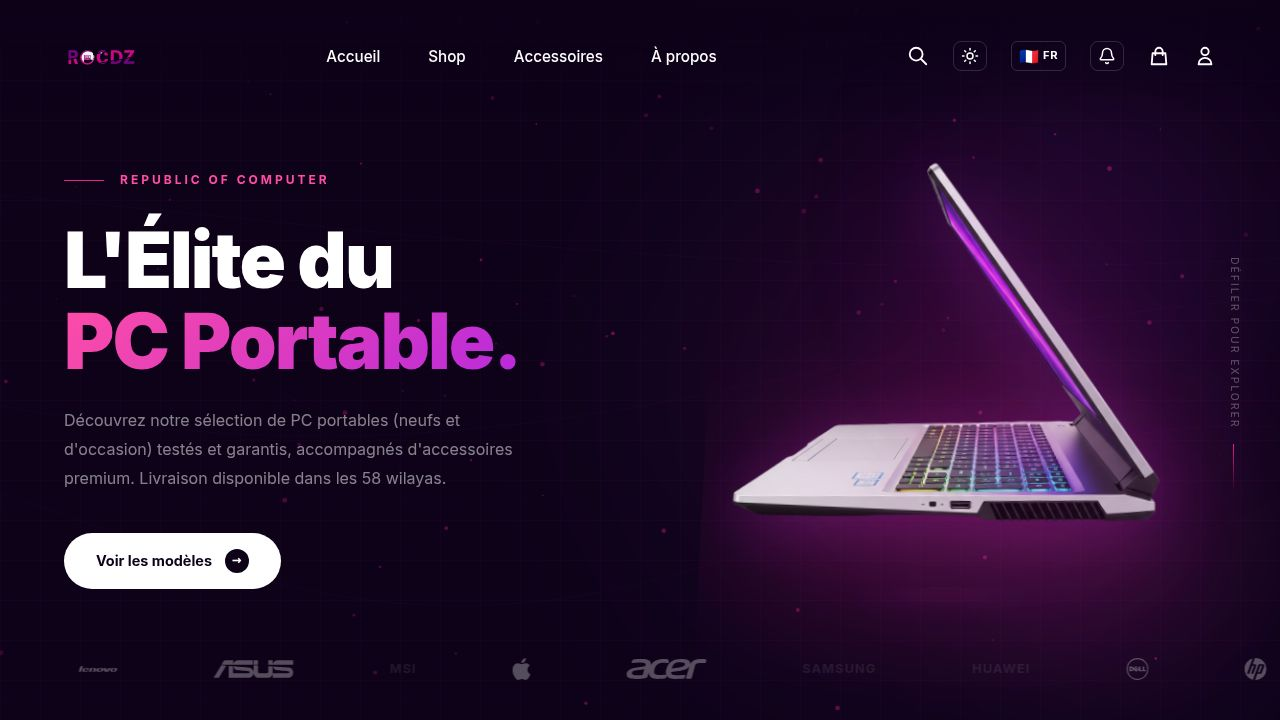
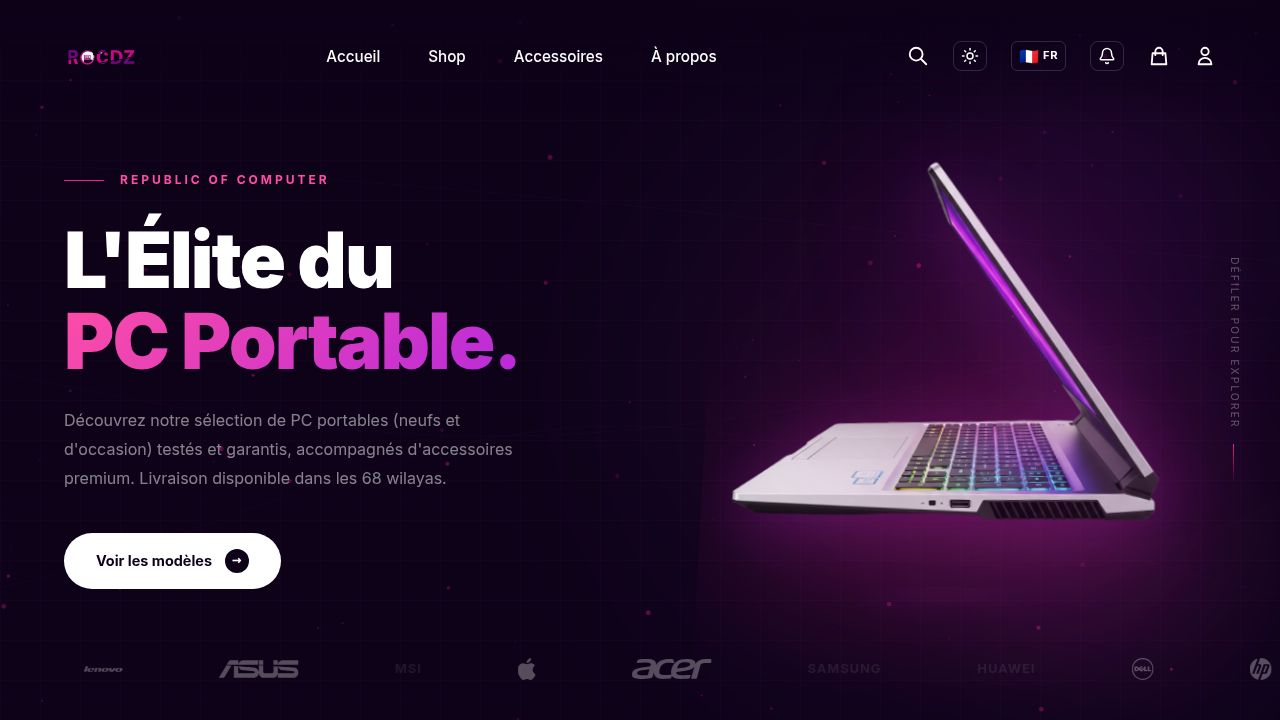
Update website footer and improve light mode display
Remove tracking section from home, update footer with contact details, and adjust text and logo colors for better visibility in light mode.

Replit-Commit-Author: Agent
Replit-Commit-Session-Id: c9644167-96a0-4d4f-a155-c8bb3c2bbde3
Replit-Commit-Checkpoint-Type: full_checkpoint
Replit-Commit-Event-Id: 169beb84-61b3-4fcf-b506-644a0de1f5fb
Replit-Commit-Screenshot-Url: https://storage.googleapis.com/screenshot-production-us-central1/83f345b2-db2a-48a5-b47f-27564cf82f85/c9644167-96a0-4d4f-a155-c8bb3c2bbde3/4c4F4YT
Replit-Helium-Checkpoint-Created: true

diff --git a/artifacts/roc-dz/src/components/layout/Footer.tsx b/artifacts/roc-dz/src/components/layout/Footer.tsx
@@ -10,106 +10,112 @@ const DEV_WHATSAPP = "https://wa.me/213796238304";
 
 export function Footer() {
   const { t, isRTL } = useLang();
-  const c = t.contact;
   const f = t.footer;
 
   return (
     <footer className="border-t border-white/5 bg-background/50 mt-auto" dir={isRTL ? "rtl" : "ltr"}>
-      <div style={{ background: "linear-gradient(135deg,rgba(232,33,160,0.06),rgba(139,59,221,0.06))", borderBottom: "1px solid rgba(232,33,160,0.15)", padding: "2.5rem 1rem" }}>
-        <div className="container mx-auto max-w-5xl">
-          <div className="flex flex-col md:flex-row gap-6 md:gap-12 justify-between">
-            <div className="space-y-2">
-              <div style={{ display: "flex", alignItems: "center", gap: "6px", marginBottom: "8px" }}>
-                <Clock size={16} style={{ color: "var(--pink)" }} />
-                <span style={{ fontWeight: 700, fontSize: "0.85rem", color: "var(--pink)", textTransform: "uppercase", letterSpacing: "1px" }}>{c.hoursTitle}</span>
-              </div>
-              <p style={{ color: "var(--text)", fontWeight: 600, fontSize: "0.95rem" }}>{c.hours}</p>
-            </div>
 
-            <div className="space-y-3">
-              <div style={{ display: "flex", alignItems: "center", gap: "6px", marginBottom: "8px" }}>
-                <Phone size={16} style={{ color: "var(--pink)" }} />
-                <span style={{ fontWeight: 700, fontSize: "0.85rem", color: "var(--pink)", textTransform: "uppercase", letterSpacing: "1px" }}>{c.title}</span>
-              </div>
-              <div style={{ display: "flex", flexDirection: "column", gap: "6px" }}>
-                <a href="tel:[phone redacted]" style={{ color: "var(--text)", textDecoration: "none", fontWeight: 600, fontSize: "1rem", display: "flex", alignItems: "center", gap: "8px" }}>
-                  📞 {c.phone1}
-                  <span style={{ fontSize: "0.75rem", color: "var(--text-muted)", fontWeight: 400 }}>{c.phone1Hours}</span>
-                </a>
-                <a href="tel:[phone redacted]" style={{ color: "var(--text)", textDecoration: "none", fontWeight: 600, fontSize: "1rem", display: "flex", alignItems: "center", gap: "8px" }}>
-                  📞 {c.phone2}
-                  <span style={{ fontSize: "0.75rem", color: "var(--text-muted)", fontWeight: 400 }}>{c.phone2Hours}</span>
-                </a>
-              </div>
-            </div>
+      <div className="container mx-auto px-4 py-12 grid grid-cols-1 md:grid-cols-3 gap-8">
 
-            <div className="space-y-3">
-              <div style={{ display: "flex", alignItems: "center", gap: "6px", marginBottom: "8px" }}>
-                <MapPin size={16} style={{ color: "var(--pink)" }} />
-                <span style={{ fontWeight: 700, fontSize: "0.85rem", color: "var(--pink)", textTransform: "uppercase", letterSpacing: "1px" }}>{c.location}</span>
-              </div>
-              <a href={MAPS_URL} target="_blank" rel="noopener noreferrer"
-                style={{ color: "var(--text)", textDecoration: "none", fontWeight: 600, fontSize: "0.9rem", display: "flex", alignItems: "center", gap: "6px" }}>
-                📍 {c.mapLink}
-              </a>
+        {/* Col 1 — Logo + description */}
+        <div className="col-span-1">
+          <Link href="/" className="inline-block mb-4">
+            <img src="/logo.png" alt="ROC DZ" style={{ height: "48px", width: "auto", objectFit: "contain" }} />
+          </Link>
+          <p style={{ fontSize: "0.85rem", color: "var(--text-muted)", maxWidth: "220px", lineHeight: 1.65 }}>{f.desc}</p>
+        </div>
+
+        {/* Col 2 — Navigation */}
+        <div>
+          <h4 style={{ fontWeight: 700, marginBottom: "1rem", fontSize: "0.88rem", textTransform: "uppercase", letterSpacing: "1px", color: "var(--text)" }}>{f.nav}</h4>
+          <ul style={{ listStyle: "none", padding: 0, margin: 0, display: "flex", flexDirection: "column", gap: "0.5rem" }}>
+            <li><Link href="/"           style={{ textDecoration: "none", fontSize: "0.85rem", color: "var(--text-muted)", transition: "color 0.15s" }}>{t.nav.home}</Link></li>
+            <li><Link href="/models"     style={{ textDecoration: "none", fontSize: "0.85rem", color: "var(--text-muted)", transition: "color 0.15s" }}>{t.nav.shop}</Link></li>
+            <li><Link href="/accessories" style={{ textDecoration: "none", fontSize: "0.85rem", color: "var(--text-muted)", transition: "color 0.15s" }}>{t.nav.acc}</Link></li>
+            <li><Link href="/about"      style={{ textDecoration: "none", fontSize: "0.85rem", color: "var(--text-muted)", transition: "color 0.15s" }}>{t.nav.about}</Link></li>
+            <li><Link href="/suivi"      style={{ textDecoration: "none", fontSize: "0.85rem", color: "var(--text-muted)", transition: "color 0.15s" }}>Suivi commande</Link></li>
+          </ul>
+        </div>
+
+        {/* Col 3 — Horaires + Contact + Localisation */}
+        <div style={{ display: "flex", flexDirection: "column", gap: "1.25rem" }}>
+
+          {/* Horaires */}
+          <div>
+            <div style={{ display: "flex", alignItems: "center", gap: "6px", marginBottom: "0.4rem" }}>
+              <Clock size={14} style={{ color: "var(--pink)", flexShrink: 0 }} />
+              <span style={{ fontSize: "0.72rem", fontWeight: 700, color: "var(--pink)", textTransform: "uppercase", letterSpacing: "1.5px" }}>
+                Horaires d'ouverture
+              </span>
+            </div>
+            <p style={{ fontSize: "0.85rem", color: "var(--text)", fontWeight: 600, margin: 0 }}>6/7 jours — 9h à 20h</p>
+          </div>
+
+          {/* Téléphones */}
+          <div>
+            <div style={{ display: "flex", alignItems: "center", gap: "6px", marginBottom: "0.5rem" }}>
+              <Phone size={14} style={{ color: "var(--pink)", flexShrink: 0 }} />
+              <span style={{ fontSize: "0.72rem", fontWeight: 700, color: "var(--pink)", textTransform: "uppercase", letterSpacing: "1.5px" }}>
+                Contactez-nous
+              </span>
+            </div>
+            <a href="tel:[phone redacted]" style={{ display: "flex", alignItems: "center", gap: "6px", textDecoration: "none", color: "var(--text)", fontSize: "0.88rem", fontWeight: 600, marginBottom: "0.3rem" }}>
+              📞 0562 854 820
+              <span style={{ fontSize: "0.72rem", color: "var(--text-muted)", fontWeight: 400 }}>de 8h à 16h</span>
+            </a>
+            <a href="tel:[phone redacted]" style={{ display: "flex", alignItems: "center", gap: "6px", textDecoration: "none", color: "var(--text)", fontSize: "0.88rem", fontWeight: 600 }}>
+              📞 0553 207 730
+              <span style={{ fontSize: "0.72rem", color: "var(--text-muted)", fontWeight: 400 }}>de 16h à minuit</span>
+            </a>
+          </div>
+
+          {/* Localisation + réseaux */}
+          <div>
+            <div style={{ display: "flex", alignItems: "center", gap: "6px", marginBottom: "0.5rem" }}>
+              <MapPin size={14} style={{ color: "var(--pink)", flexShrink: 0 }} />
+              <span style={{ fontSize: "0.72rem", fontWeight: 700, color: "var(--pink)", textTransform: "uppercase", letterSpacing: "1.5px" }}>
+                Notre localisation
+              </span>
+            </div>
+            <a href={MAPS_URL} target="_blank" rel="noopener noreferrer"
+              style={{ display: "flex", alignItems: "center", gap: "6px", textDecoration: "none", color: "var(--text)", fontSize: "0.85rem", fontWeight: 600, marginBottom: "0.6rem" }}>
+              📍 Voir sur Google Maps
+            </a>
+            <div style={{ display: "flex", gap: "14px", alignItems: "center" }}>
               <a href={INSTAGRAM_URL} target="_blank" rel="noopener noreferrer"
-                style={{ color: "#e1306c", textDecoration: "none", fontWeight: 600, fontSize: "0.9rem", display: "flex", alignItems: "center", gap: "6px" }}>
-                <Instagram size={16} /> Instagram
+                style={{ display: "flex", alignItems: "center", gap: "5px", textDecoration: "none", color: "#e1306c", fontSize: "0.82rem", fontWeight: 600, transition: "opacity 0.2s" }}>
+                <Instagram size={15} /> Instagram
               </a>
               <a href={FACEBOOK_URL} target="_blank" rel="noopener noreferrer"
-                style={{ color: "#1877f2", textDecoration: "none", fontWeight: 600, fontSize: "0.9rem", display: "flex", alignItems: "center", gap: "6px" }}>
-                <Facebook size={16} /> Facebook
+                style={{ display: "flex", alignItems: "center", gap: "5px", textDecoration: "none", color: "#1877f2", fontSize: "0.82rem", fontWeight: 600, transition: "opacity 0.2s" }}>
+                <Facebook size={15} /> Facebook
               </a>
               <a href={YOUTUBE_URL} target="_blank" rel="noopener noreferrer"
-                style={{ color: "#ff0000", textDecoration: "none", fontWeight: 600, fontSize: "0.9rem", display: "flex", alignItems: "center", gap: "6px" }}>
-                <Youtube size={16} /> YouTube
+                style={{ display: "flex", alignItems: "center", gap: "5px", textDecoration: "none", color: "#ff0000", fontSize: "0.82rem", fontWeight: 600, transition: "opacity 0.2s" }}>
+                <Youtube size={15} /> YouTube
               </a>
             </div>
           </div>
         </div>
       </div>
 
-      <div className="container mx-auto px-4 py-12 grid grid-cols-1 md:grid-cols-3 gap-8">
-        <div className="col-span-1">
-          <Link href="/" className="inline-block mb-4">
-            <img src="/logo.png" alt="ROC DZ" style={{ height: "48px", width: "auto", objectFit: "contain" }} />
-          </Link>
-          <p className="text-muted-foreground text-sm max-w-xs">{f.desc}</p>
+      {/* Bottom bar */}
+      <div style={{ borderTop: "1px solid rgba(255,255,255,0.05)", padding: "1.25rem 1rem" }}>
+        <div className="container mx-auto" style={{ display: "flex", flexDirection: "row", alignItems: "center", justifyContent: "space-between", gap: "0.75rem", flexWrap: "wrap" }}>
+          <span style={{ fontSize: "0.75rem", color: "var(--text-muted)" }}>&copy; {new Date().getFullYear()} ROC DZ. {f.rights}</span>
+          <a
+            href={DEV_WHATSAPP}
+            target="_blank"
+            rel="noopener noreferrer"
+            style={{ display: "flex", alignItems: "center", gap: "6px", color: "var(--text-muted)", textDecoration: "none", fontSize: "0.72rem", opacity: 0.65, transition: "opacity 0.2s" }}
+            onMouseEnter={e => { (e.currentTarget as HTMLAnchorElement).style.opacity = "1"; }}
+            onMouseLeave={e => { (e.currentTarget as HTMLAnchorElement).style.opacity = "0.65"; }}
+          >
+            <span>{f.devCredit}</span>
+            <svg viewBox="0 0 24 24" fill="currentColor" style={{ width: "14px", height: "14px", color: "#25d366" }}><path d="M17.472 14.382c-.297-.149-1.758-.867-2.03-.967-.273-.099-.471-.148-.67.15-.197.297-.767.966-.94 1.164-.173.199-.347.223-.644.075-.297-.15-1.255-.463-2.39-1.475-.883-.788-1.48-1.761-1.653-2.059-.173-.297-.018-.458.13-.606.134-.133.298-.347.446-.52.149-.174.198-.298.298-.497.099-.198.05-.371-.025-.52-.075-.149-.669-1.612-.916-2.207-.242-.579-.487-.5-.669-.51-.173-.008-.371-.01-.57-.01-.198 0-.52.074-.792.372-.272.297-1.04 1.016-1.04 2.479 0 1.462 1.065 2.875 1.213 3.074.149.198 2.096 3.2 5.077 4.487.709.306 1.262.489 1.694.625.712.227 1.36.195 1.871.118.571-.085 1.758-.719 2.006-1.413.248-.694.248-1.289.173-1.413-.074-.124-.272-.198-.57-.347m-5.421 7.403h-.004a9.87 9.87 0 01-5.031-1.378l-.361-.214-3.741.982.998-3.648-.235-.374a9.86 9.86 0 01-1.51-5.26c.001-5.45 4.436-9.884 9.888-9.884 2.64 0 5.122 1.03 6.988 2.898a9.825 9.825 0 012.893 6.994c-.003 5.45-4.437 9.884-9.885 9.884m8.413-18.297A11.815 11.815 0 0012.05 0C5.495 0 .16 5.335.157 11.892c0 2.096.547 4.142 1.588 5.945L.057 24l6.305-1.654a11.882 11.882 0 005.683 1.448h.005c6.554 0 11.89-5.335 11.893-11.893a11.821 11.821 0 00-3.48-8.413z"/></svg>
+            <span>[phone redacted]</span>
+          </a>
         </div>
-        <div>
-          <h4 className="font-semibold mb-4 text-foreground">{f.nav}</h4>
-          <ul className="space-y-2 text-sm text-muted-foreground">
-            <li><Link href="/" className="hover:text-primary transition-colors">{t.nav.home}</Link></li>
-            <li><Link href="/models" className="hover:text-primary transition-colors">{t.nav.shop}</Link></li>
-            <li><Link href="/accessories" className="hover:text-primary transition-colors">{t.nav.acc}</Link></li>
-            <li><Link href="/about" className="hover:text-primary transition-colors">{t.nav.about}</Link></li>
-            <li><Link href="/suivi" className="hover:text-primary transition-colors">Suivi commande</Link></li>
-          </ul>
-        </div>
-        <div>
-          <h4 className="font-semibold mb-4 text-foreground">{f.legal}</h4>
-          <ul className="space-y-2 text-sm text-muted-foreground">
-            <li><a href="#" className="hover:text-primary transition-colors">Conditions d'utilisation</a></li>
-            <li><a href="#" className="hover:text-primary transition-colors">Politique de confidentialité</a></li>
-            <li><a href="#" className="hover:text-primary transition-colors">Garantie</a></li>
-          </ul>
-        </div>
-      </div>
-
-      <div className="container mx-auto px-4 pb-8 border-t border-white/5 pt-6 flex flex-col md:flex-row items-center justify-between gap-3 text-xs text-muted-foreground">
-        <span>&copy; {new Date().getFullYear()} ROC DZ. {f.rights}</span>
-        <a
-          href={DEV_WHATSAPP}
-          target="_blank"
-          rel="noopener noreferrer"
-          style={{ display: "flex", alignItems: "center", gap: "6px", color: "var(--text-muted)", textDecoration: "none", fontSize: "0.72rem", opacity: 0.65, transition: "opacity 0.2s" }}
-          onMouseEnter={e => { (e.currentTarget as HTMLAnchorElement).style.opacity = "1"; }}
-          onMouseLeave={e => { (e.currentTarget as HTMLAnchorElement).style.opacity = "0.65"; }}
-        >
-          <span>{f.devCredit}</span>
-          <svg viewBox="0 0 24 24" fill="currentColor" style={{ width: "14px", height: "14px", color: "#25d366" }}><path d="M17.472 14.382c-.297-.149-1.758-.867-2.03-.967-.273-.099-.471-.148-.67.15-.197.297-.767.966-.94 1.164-.173.199-.347.223-.644.075-.297-.15-1.255-.463-2.39-1.475-.883-.788-1.48-1.761-1.653-2.059-.173-.297-.018-.458.13-.606.134-.133.298-.347.446-.52.149-.174.198-.298.298-.497.099-.198.05-.371-.025-.52-.075-.149-.669-1.612-.916-2.207-.242-.579-.487-.5-.669-.51-.173-.008-.371-.01-.57-.01-.198 0-.52.074-.792.372-.272.297-1.04 1.016-1.04 2.479 0 1.462 1.065 2.875 1.213 3.074.149.198 2.096 3.2 5.077 4.487.709.306 1.262.489 1.694.625.712.227 1.36.195 1.871.118.571-.085 1.758-.719 2.006-1.413.248-.694.248-1.289.173-1.413-.074-.124-.272-.198-.57-.347m-5.421 7.403h-.004a9.87 9.87 0 01-5.031-1.378l-.361-.214-3.741.982.998-3.648-.235-.374a9.86 9.86 0 01-1.51-5.26c.001-5.45 4.436-9.884 9.888-9.884 2.64 0 5.122 1.03 6.988 2.898a9.825 9.825 0 012.893 6.994c-.003 5.45-4.437 9.884-9.885 9.884m8.413-18.297A11.815 11.815 0 0012.05 0C5.495 0 .16 5.335.157 11.892c0 2.096.547 4.142 1.588 5.945L.057 24l6.305-1.654a11.882 11.882 0 005.683 1.448h.005c6.554 0 11.89-5.335 11.893-11.893a11.821 11.821 0 00-3.48-8.413z"/></svg>
-          <span>[phone redacted]</span>
-        </a>
       </div>
     </footer>
   );

diff --git a/artifacts/roc-dz/src/index.css b/artifacts/roc-dz/src/index.css
@@ -1995,3 +1995,29 @@ section { position: relative; z-index: 2; }
 /* ── LIGHT MODE: tracking step inactive text ─────────────── */
 .light-mode .tracking-step-name { color: rgba(20,16,16,0.5); }
 .light-mode .tracking-step-line { background: linear-gradient(90deg, rgba(199,25,93,0.3), rgba(139,59,221,0.15)); }
+
+/* ── LIGHT MODE: shop sidebar & filter panel text ─── */
+.light-mode .shop-sidebar p,
+.light-mode .shop-mobile-panel p {
+  color: rgba(20,16,16,0.55) !important;
+}
+.light-mode .shop-sidebar button span,
+.light-mode .shop-mobile-panel button span {
+  color: rgba(20,16,16,0.65) !important;
+}
+.light-mode .shop-sidebar button[style*="rgba(232,33,160"] span,
+.light-mode .shop-mobile-panel button[style*="rgba(232,33,160"] span {
+  color: var(--pink) !important;
+}
+/* Marquee fallback text + global brand-logo text */
+.light-mode .brand-item span { color: rgba(20,16,16,0.7) !important; }
+/* Shop heading text (Trier par, labels) */
+.light-mode .shop-topbar { color: rgba(20,16,16,0.8); }
+/* Pagination count text */
+.light-mode .shop-main > p { color: rgba(20,16,16,0.4) !important; }
+/* stat-card border in light mode */
+.light-mode .stat-card { background: rgba(20,16,16,0.03); border-color: rgba(20,16,16,0.08); }
+/* tracking step colors in light mode (inactive) */
+.light-mode .tracking-step-dot { border-color: rgba(20,16,16,0.15) !important; }
+/* footer border */
+.light-mode footer { border-top-color: rgba(20,16,16,0.08) !important; }

diff --git a/artifacts/roc-dz/src/pages/Home.tsx b/artifacts/roc-dz/src/pages/Home.tsx
@@ -156,7 +156,8 @@ export default function Home() {
                 <img
                   src={b.img}
                   alt={b.name}
-                  style={{ height: "22px", width: "auto", maxWidth: "80px", objectFit: "contain", filter: "brightness(0) invert(1)", opacity: 0.75 }}
+                  className="brand-logo"
+                  style={{ height: "22px", width: "auto", maxWidth: "80px", objectFit: "contain", opacity: 0.75 }}
                   onError={e => { const el = e.currentTarget as HTMLImageElement; el.style.display = "none"; el.nextElementSibling && ((el.nextElementSibling as HTMLElement).style.display = "inline"); }}
                 />
                 <span style={{ display: "none", fontSize: "0.8rem", fontWeight: 700, letterSpacing: "1px", opacity: 0.7 }}>{b.name}</span>
@@ -373,9 +374,6 @@ export default function Home() {
           </div>
         </div>
       </section>
-
-      {/* TRACKING FEATURE VISUAL */}
-      <TrackingFeatureSection h={h} />
 
       {/* SUIVI COMMANDE CTA */}
       <div className="tracking-cta fade-up">